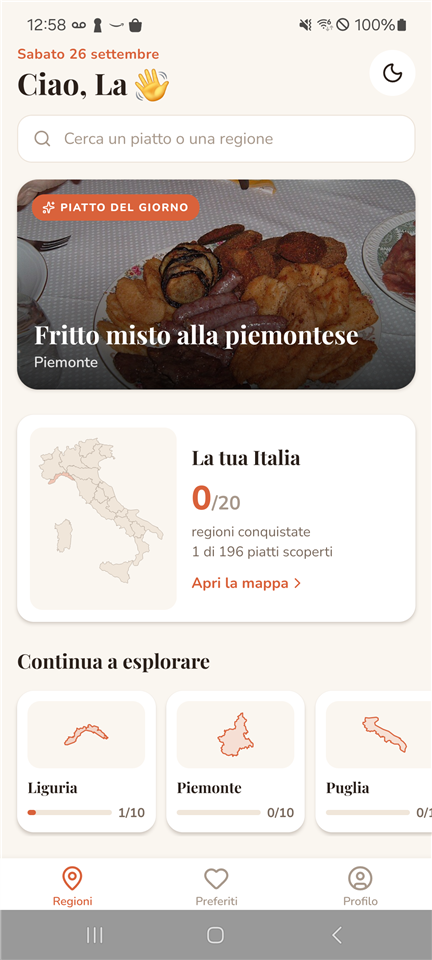
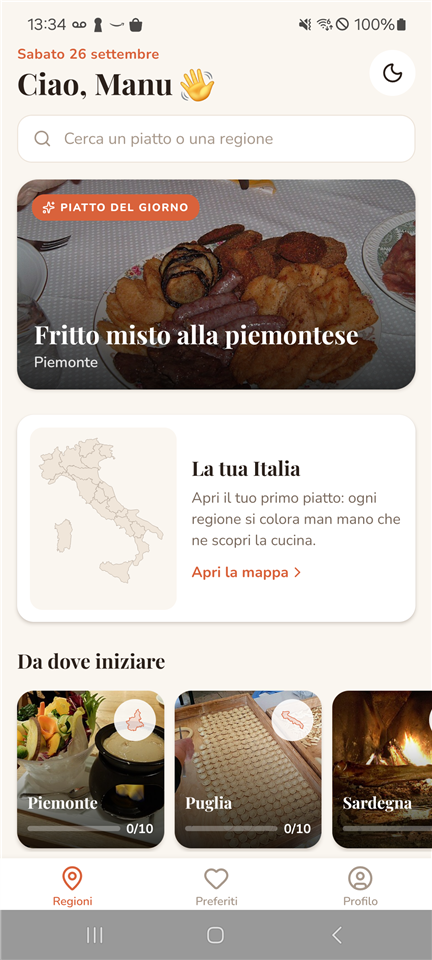
README e screenshot aggiornati

diff --git a/README.md b/README.md
@@ -23,8 +23,8 @@ L'app include ricerca, preferiti, profilo con statistiche e traguardi, tema chia
   - **piatto del giorno** (cambia ogni giorno);
   - card **"La tua Italia"** con l'anteprima della mappa e i progressi;
   - carosello "Continua a esplorare" (o "Da dove iniziare" per chi è all'inizio);
-  - griglia delle 20 regioni con la sagoma di ciascuna e la barra di progresso.
-- **Mappa interattiva** dell'Italia in SVG: tocca una regione per aprirla, pizzica per ingrandire. Le regioni si colorano in base ai piatti scoperti.
+  - griglia delle 20 regioni: ogni card ha la foto di un piatto tipico, la sagoma della regione e la barra di progresso.
+- **Mappa interattiva** dell'Italia in SVG, con i progressi in alto: le regioni si colorano in base ai piatti scoperti. Toccando una regione compare un'anteprima con tre piatti tipici e il pulsante per aprirla; pizzica per ingrandire.
 - **Regioni**: 10 piatti tipici scelti a mano per ciascuna, con introduzione da Wikipedia. Più la sezione **"Altri piatti della regione"**, caricata dal vivo dalla categoria Wikipedia della regione (es. *Cucina toscana*) e filtrata da vini, oli e voci non pertinenti.
 - **Province (prototipo, solo Toscana)**: le 10 province toscane con le loro specialità locali (es. Massa-Carrara: panigacci, testaroli, torta d'erbi…).
 - **Dettaglio del piatto**:
